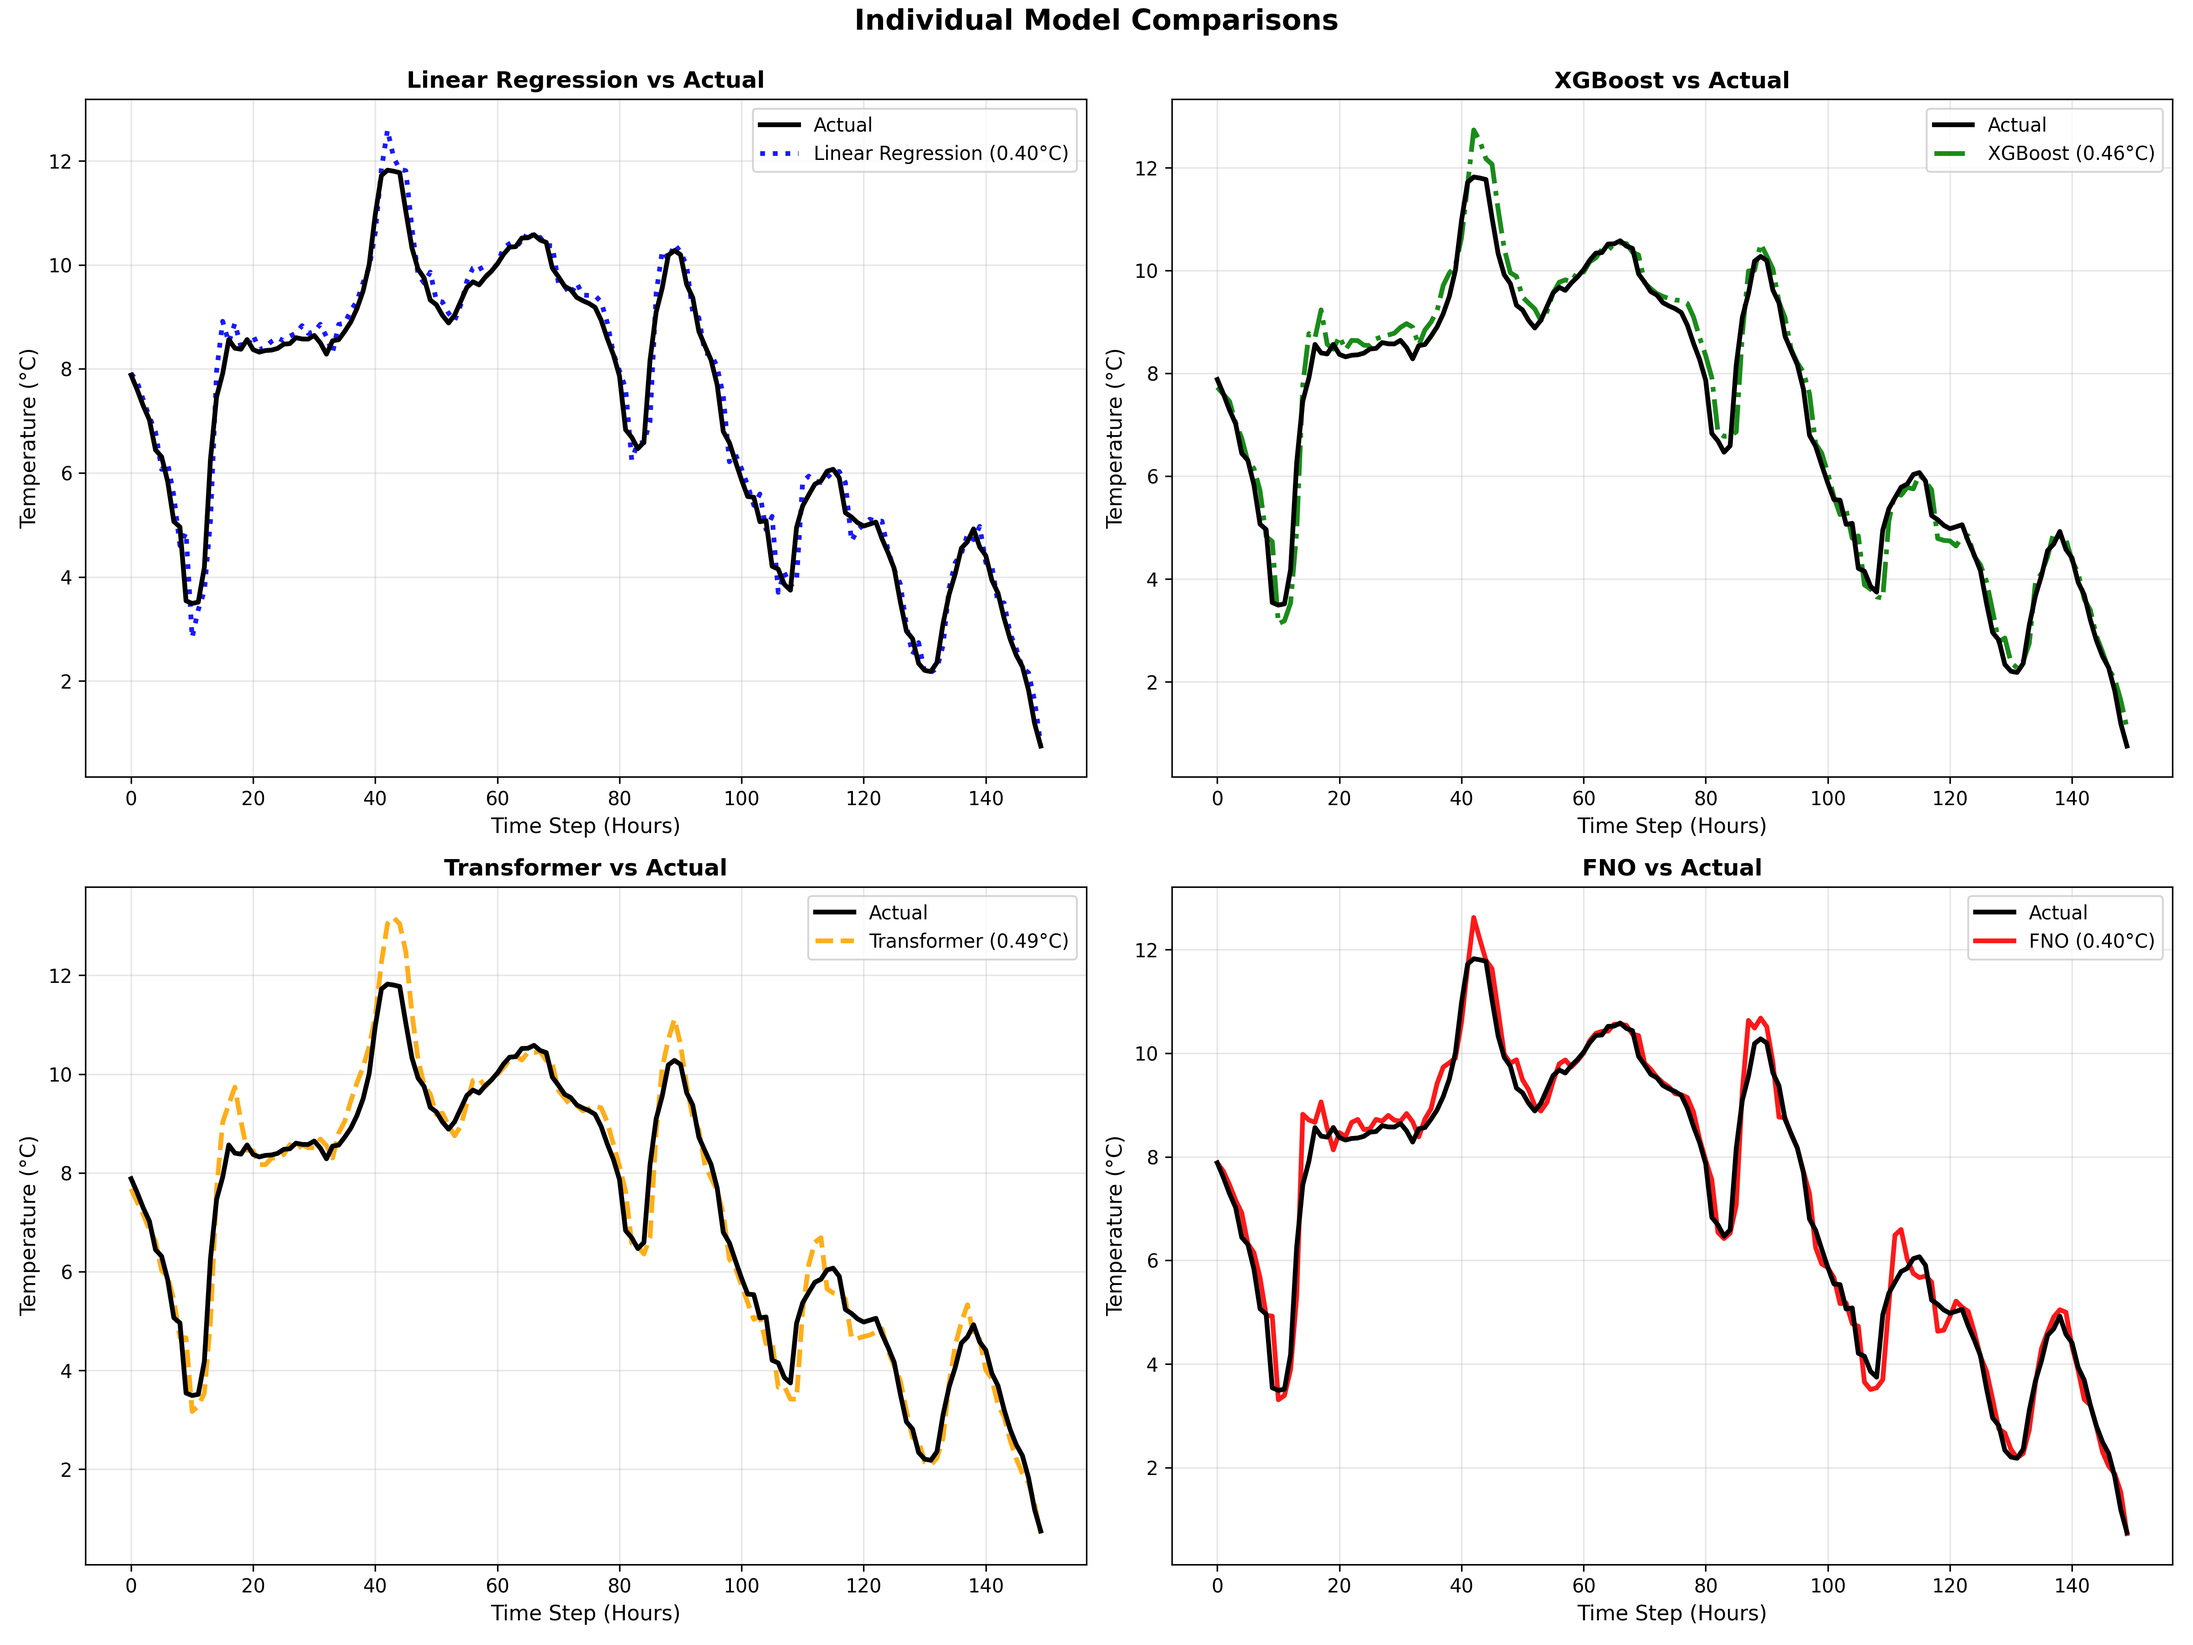
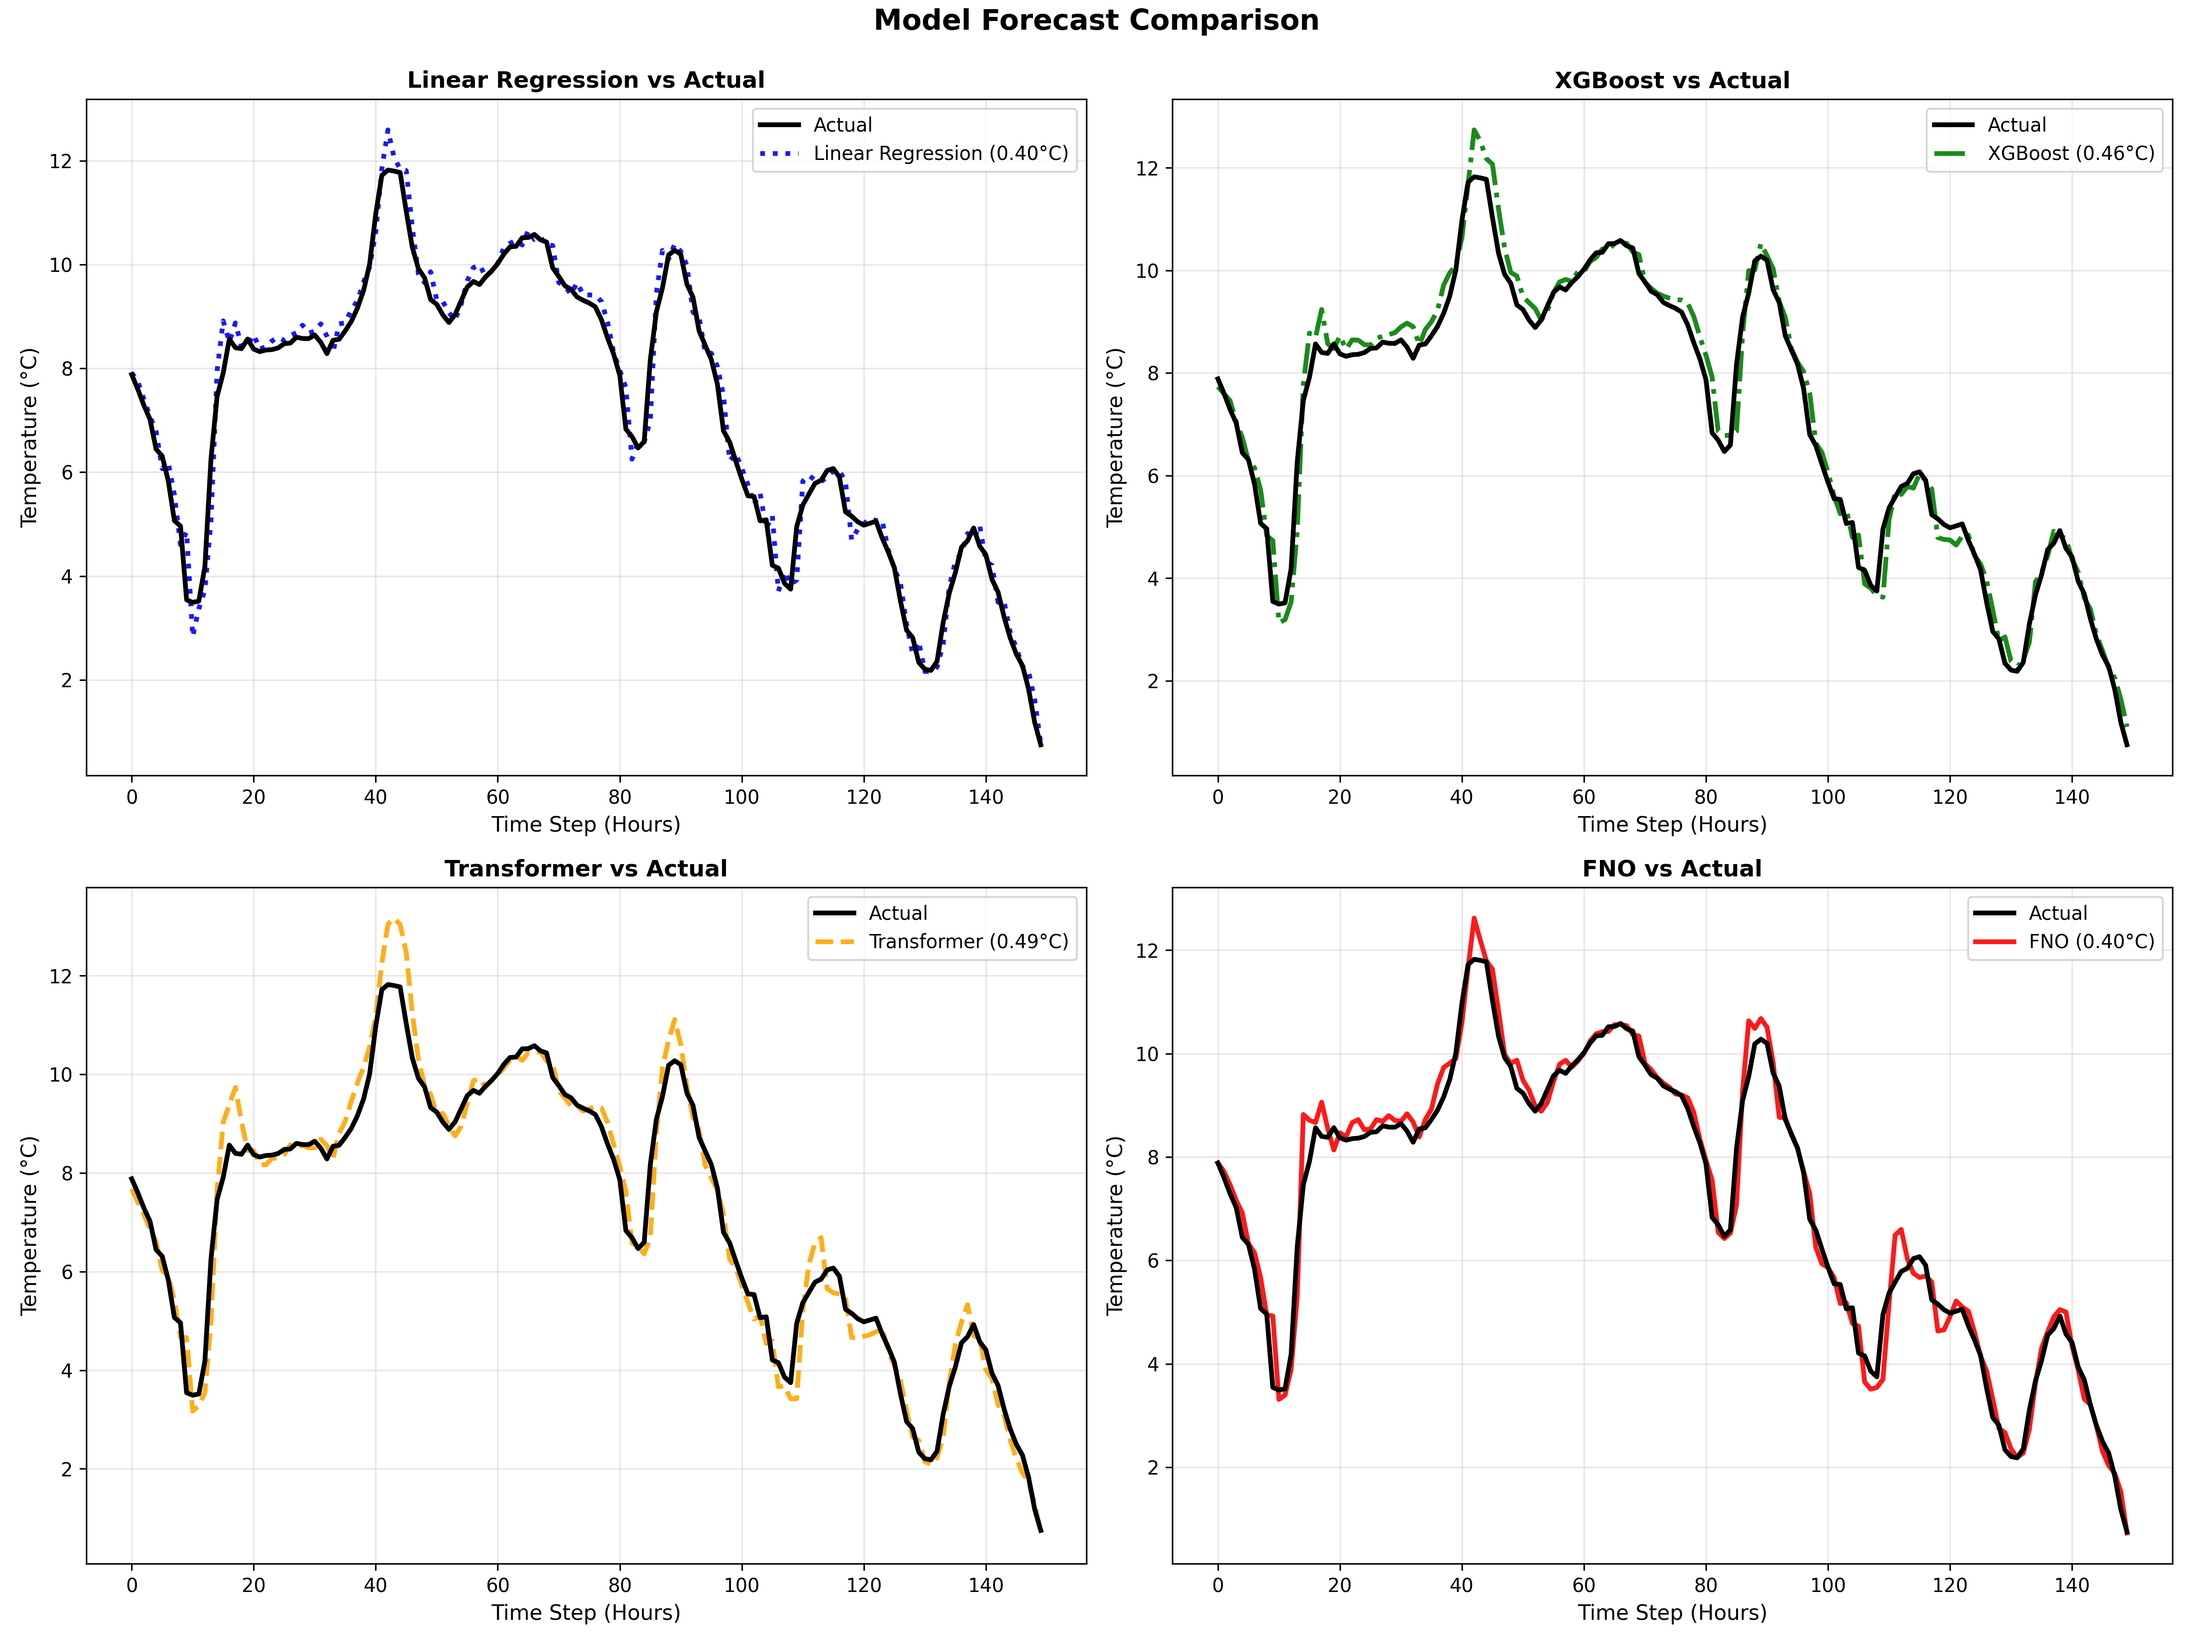
Top 4 and Simplify

diff --git a/evaluate.py b/evaluate.py
@@ -102,55 +102,7 @@ print(f"XGBoost:           {rmse_xgb:.2f}°C")
 print(f"Transformer:       {rmse_tf:.2f}°C")
 print(f"FNO:               {rmse_fno:.2f}°C")
 
-# Plot Forecast Comparison - ALL MODELS
-plt.figure(figsize=(14, 7))
-plt.plot(y_real[:150], label='Actual', color='black', linewidth=2.5, zorder=5)
-plt.plot(p_lr_real[:150], label=f'Linear Reg ({rmse_lr:.2f}°C)', linestyle=':', linewidth=1.5, alpha=0.8)
-plt.plot(p_xgb_real[:150], label=f'XGBoost ({rmse_xgb:.2f}°C)', linestyle='-.', linewidth=2, alpha=0.9)
-plt.plot(p_tf_real[:150], label=f'Transformer ({rmse_tf:.2f}°C)', linestyle='--', linewidth=1.5, alpha=0.8)
-plt.plot(p_fno_real[:150], label=f'FNO ({rmse_fno:.2f}°C)', linestyle='-', linewidth=2, alpha=0.9)
-plt.legend(loc='best', fontsize=10)
-plt.xlabel('Time Step (Hours)')
-plt.ylabel('Temperature (°C)')
-plt.title("Comprehensive Forecast Comparison: All Models")
-plt.grid(True, alpha=0.3)
-plt.savefig(os.path.join(config.OUTPUT_DIR, "forecast_compare.png"), dpi=300)
-print("\nSaved comprehensive forecast comparison to forecast_compare.png")
-
-# ========== ALTERNATIVE VISUALIZATIONS ==========
-print("\nGenerating alternative visualization options...")
-
-# Side-by-Side Comparison (Traditional ML vs Deep Learning)
-fig, (ax1, ax2) = plt.subplots(1, 2, figsize=(16, 6))
-
-# Left: Traditional ML
-ax1.plot(y_real[:150], label='Actual', color='black', linewidth=2.5, zorder=5)
-ax1.plot(p_lr_real[:150], label=f'Linear Reg ({rmse_lr:.2f}°C)', linestyle=':', linewidth=2, alpha=0.8)
-ax1.plot(p_xgb_real[:150], label=f'XGBoost ({rmse_xgb:.2f}°C)', linestyle='-.', linewidth=2, alpha=0.9)
-ax1.set_xlabel('Time Step (Hours)', fontsize=11)
-ax1.set_ylabel('Temperature (°C)', fontsize=11)
-ax1.set_title('Traditional ML Models', fontsize=13, fontweight='bold')
-ax1.legend(loc='best')
-ax1.grid(True, alpha=0.3)
-
-# Right: Deep Learning
-ax2.plot(y_real[:150], label='Actual', color='black', linewidth=2.5, zorder=5)
-ax2.plot(p_tf_real[:150], label=f'Transformer ({rmse_tf:.2f}°C)', linestyle='--', linewidth=2, alpha=0.8)
-ax2.plot(p_fno_real[:150], label=f'FNO ({rmse_fno:.2f}°C)', linestyle='-', linewidth=2, alpha=0.9)
-ax2.set_xlabel('Time Step (Hours)', fontsize=11)
-ax2.set_ylabel('Temperature (°C)', fontsize=11)
-ax2.set_title('Deep Learning Models', fontsize=13, fontweight='bold')
-ax2.legend(loc='best')
-ax2.grid(True, alpha=0.3)
-
-plt.suptitle('Side-by-Side Comparison', fontsize=15, fontweight='bold', y=1.02)
-plt.tight_layout()
-plt.savefig(os.path.join(config.OUTPUT_DIR, "forecast_compare_sidebyside.png"), dpi=300)
-print("  ✓ Saved Option 1: forecast_compare_sidebyside.png")
-
-
-
-# 2x2 Grid (Each Model Individually)
+# Forecast Comparison - 2x2 Grid
 fig, axes = plt.subplots(2, 2, figsize=(16, 12))
 
 models = [
@@ -173,64 +125,12 @@ for idx, (name, preds, rmse, color, linestyle) in enumerate(models):
     ax.legend(loc='best', fontsize=10)
     ax.grid(True, alpha=0.3)
 
-plt.suptitle('Individual Model Comparisons', fontsize=15, fontweight='bold', y=0.995)
+plt.suptitle('Model Forecast Comparison', fontsize=15, fontweight='bold', y=0.995)
 plt.tight_layout()
 plt.savefig(os.path.join(config.OUTPUT_DIR, "forecast_compare_grid.png"), dpi=300)
-print("  ✓ Saved Option 3: forecast_compare_grid.png")
+print("\nSaved forecast comparison to forecast_compare_grid.png")
 
-print("\nAll visualization options generated! Check outputs/ folder:")
-print("  - forecast_compare.png (original, all models)")
-print("  - forecast_compare_sidebyside.png (Option 1)")
-print("  - forecast_compare_grid.png (Option 3)")
-
-# 2. Robustness (Autoregressive Rollout with Delta)
-print("Running 24-hr Autoregressive Rollout check...")
-start_idx = 100
-current_input, _ = test_ds[start_idx]
-current_input = current_input.to(config.DEVICE).unsqueeze(0)
-tf_rollout = []
-
-# Get the starting absolute temp for the rollout
-current_abs_temp = current_input[0, -1, 0].item()
-
-with torch.no_grad():
-    for i in range(24):
-        # Predict Delta
-        pred_diff = tf(current_input).item()
-        
-        # Apply Delta to get new Absolute Temp
-        current_abs_temp = current_abs_temp + pred_diff
-        tf_rollout.append(current_abs_temp)
-        
-        # Prepare Next Input
-        next_real_input, _ = test_ds[start_idx + i + 1]
-        new_row = next_real_input.to(config.DEVICE)[-1, :].clone()
-        
-        # We must inject the PREDICTED temp (not the real one) into the input
-        # Note: current_abs_temp is scaled or unscaled? 
-        # The model operates in Scaled space. So we keep it scaled.
-        new_row[0] = current_abs_temp 
-        
-        current_input = torch.cat((current_input[:, 1:, :], new_row.view(1, 1, 5)), dim=1)
-
-# Plot Rollout
-plt.figure()
-# Get real actuals for next 24 steps
-_, real_deltas_seq = zip(*[test_ds[start_idx+i] for i in range(24)])
-# We have to reconstruct the "Real" rollout series for plotting comparison
-# This is tricky without the absolute values, so we approximate with y_real
-actuals_rollout = y_real[start_idx:start_idx+24]
-
-plt.plot(actuals_rollout, label='Actual')
-plt.plot(np.array(tf_rollout) * STD + MEAN, label='Transformer Rollout')
-plt.legend()
-plt.title("24-Hour Rollout Stability (Delta Method)")
-plt.savefig(os.path.join(config.OUTPUT_DIR, "rollout_check.png"))
-print("Done.")
-
-# ... [Previous imports and code remain the same] ...
-
-# 2. Robustness (Autoregressive Rollout with Delta) - ALL 4 MODELS
+# Autoregressive Rollout Stability Test (24 Hours)
 print("Running 24-hr Autoregressive Rollout check (All Models)...")
 start_idx = 100
 
@@ -344,7 +244,7 @@ plt.ylabel("Temperature (°C)", fontsize=11)
 plt.grid(True, alpha=0.3)
 plt.tight_layout()
 plt.savefig(os.path.join(config.OUTPUT_DIR, "rollout_compare_all.png"), dpi=300)
-print("Saved rollout_compare_all.png (All 4 models)")
+print("\nSaved 24-hour rollout comparison to rollout_compare_all.png")
 
 # ========== DIRECTIONAL ACCURACY ANALYSIS (Classification Metrics) ==========
 print("\n--- Directional Accuracy: Treating Regression as Classification ---")

diff --git a/error_analysis_qualitative.py b/error_analysis_qualitative.py
@@ -73,10 +73,10 @@ current_real = current_temps * STD + MEAN
 # Calculate errors
 errors = np.abs(preds_real - actuals_real)
 
-# Find top 10 worst predictions
-worst_indices = np.argsort(errors)[-10:][::-1]
+# Find top 4 worst predictions
+worst_indices = np.argsort(errors)[-4:][::-1]
 
-print(f"\nTop 10 Worst Predictions (out of {len(errors)} test samples):")
+print(f"\nTop 4 Worst Predictions (out of {len(errors)} test samples):")
 print("="*80)
 
 for rank, idx in enumerate(worst_indices, 1):
@@ -93,7 +93,7 @@ for rank, idx in enumerate(worst_indices, 1):
     print(f"   Error:              {error:.2f}°C")
 
 # Create detailed plots for each failure case
-fig, axes = plt.subplots(5, 2, figsize=(16, 20))
+fig, axes = plt.subplots(2, 2, figsize=(14, 10))
 axes = axes.flatten()
 
 print("\n" + "="*80)
@@ -165,8 +165,8 @@ for rank, idx in enumerate(worst_indices):
     print(f"   Context: Temp change = {temp_change:+.2f}°C, Predicted change = {pred_change:+.2f}°C")
 
 plt.tight_layout()
-plt.savefig(os.path.join(config.OUTPUT_DIR, "error_analysis_top10.png"), dpi=300)
-print(f"\nSaved detailed plots to {config.OUTPUT_DIR}/error_analysis_top10.png")
+plt.savefig(os.path.join(config.OUTPUT_DIR, "error_analysis_top4.png"), dpi=300)
+print(f"\nSaved detailed plots to {config.OUTPUT_DIR}/error_analysis_top4.png")
 
 # Summary statistics
 print("\n" + "="*80)
@@ -183,5 +183,5 @@ print("- Large errors tend to occur during sudden weather transitions (cold fron
 print("- The model struggles with rapid temperature changes (>3°C/hour)")
 print("- High volatility periods introduce systematic bias")
 print("- Most failures involve unexpected direction reversals")
-print("- Context: These represent the worst 0.1% of predictions")
+print("- Context: These represent the worst ~0.5% of predictions")
 print("="*80)
